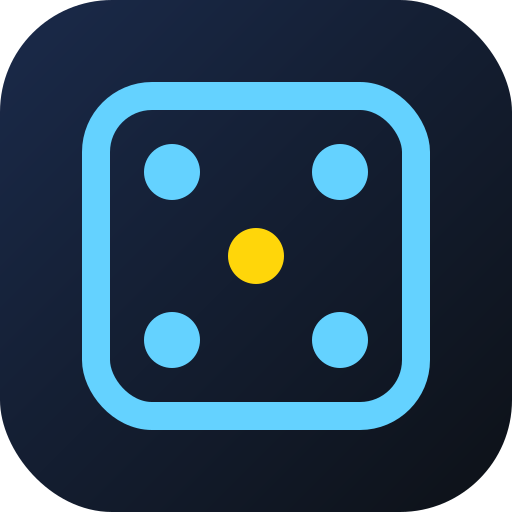
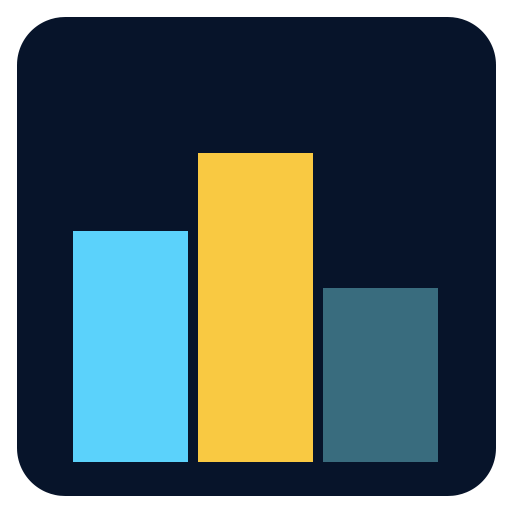
Add files via upload

diff --git a/index.html b/index.html
@@ -74,6 +74,12 @@ body {
   font-size: 12px; color: var(--text-3);
   margin-top: 4px; letter-spacing: .02em;
 }
+.splash-img {
+  width: min(280px, 70vw);
+  height: auto;
+  object-fit: contain;
+  margin-bottom: 8px;
+}
 .splash-spinner {
   width: 28px; height: 28px; margin-top: 28px;
   border: 2.5px solid rgba(255,255,255,.12);
@@ -757,8 +763,14 @@ body::before {
 <body>
 <!-- SPLASH SCREEN — visible le temps que les images des jeux se chargent -->
 <div id="splash-screen">
-  <div class="splash-logo">CLUTCH</div>
-  <div class="splash-sub">by Play Thau'Gether</div>
+  <img src="https://playthaugether.github.io/PTG-Board-Game/logo_clutch_gros.png"
+       alt="CLUTCH"
+       class="splash-img"
+       onerror="this.style.display='none';document.querySelector('.splash-fallback').style.display='flex'">
+  <div class="splash-fallback" style="display:none;flex-direction:column;align-items:center;gap:6px">
+    <div class="splash-logo">CLUTCH</div>
+    <div class="splash-sub">by Play Thau'Gether</div>
+  </div>
   <div class="splash-spinner"></div>
 </div>
 <div class="toast" id="toast"></div>
@@ -767,7 +779,13 @@ body::before {
   <!-- HEADER -->
   <header class="header">
     <div class="header-inner">
-      <div class="logo">CLUTCH<span class="logo-sub">by Play Thau'Gether</span></div>
+      <div class="logo" style="display:flex;align-items:center">
+          <img src="https://playthaugether.github.io/PTG-Board-Game/Clutch_Mot_Logo.png"
+               alt="CLUTCH" 
+               style="height:32px;width:auto;object-fit:contain"
+               onerror="this.style.display='none';this.nextElementSibling.style.display='flex'">
+          <span style="display:none;font-family:'Bebas Neue',sans-serif;font-size:17px;letter-spacing:.06em">CLUTCH<span class="logo-sub">by Play Thau'Gether</span></span>
+        </div>
       <div class="header-actions" style="display:flex;align-items:center;gap:8px">
         <button id="pwa-install-btn" onclick="installPWA()" style="display:none;align-items:center;gap:6px;background:rgba(100,210,255,.15);border:1px solid rgba(100,210,255,.3);border-radius:20px;padding:6px 12px;color:#64D2FF;font-size:12px;font-weight:600;cursor:pointer;font-family:inherit">
           Installer